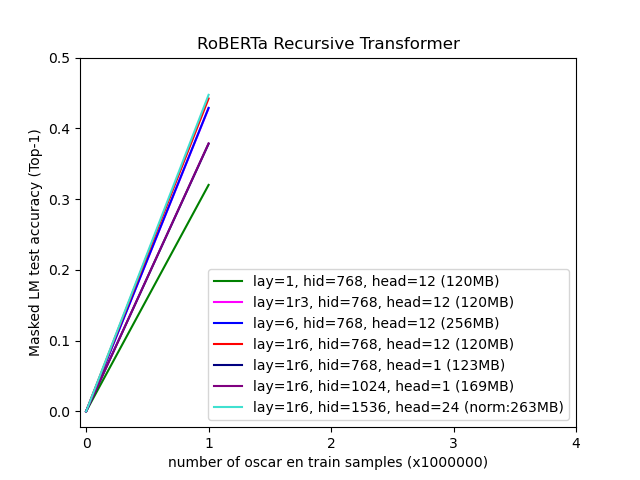
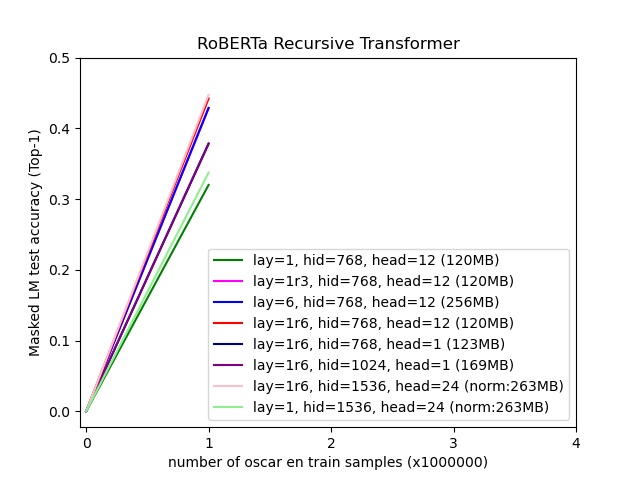
restore support for positionEmbeddingType:"absolute" normalise graph colouring scheme

diff --git a/SBNLPpt/SBNLPpt_globalDefs.py b/SBNLPpt/SBNLPpt_globalDefs.py
@@ -154,11 +154,11 @@ if(useAlgorithmTransformer):
 	recursiveLayersEmulateOrigImplementation = False
 	transformerSuperblocksRecursive = False
 	
-	
 	#initialise (default vars);
-	numberOfHiddenLayers = 1	#6	#default: 6
+	numberOfHiddenLayers = 1	#default: 1 (with recursiveLayers) or 6
 	numberOfAttentionHeads = 12	#default: 12	#numberOfAttentionHeadsDefault
 	hiddenLayerSizeTransformer = 768	#default: 768 (can be overridden)
+	positionEmbeddingType = "relative_key"	#default:"relative_key"	#orig (Nov 2022):"absolute"
 
 	if(transformerSuperblocks):
 		transformerSuperblocksNumber = 1	#segregate nlp and logic layers
@@ -173,18 +173,19 @@ if(useAlgorithmTransformer):
 				hiddenLayerSizeTransformer = 256
 				numberOfHiddenLayers = 2
 	if(recursiveLayers):
-		recursiveLayersNormaliseNumParameters2 = False	#optional
-		if(recursiveLayersNormaliseNumParameters2):
-			numberOfAttentionHeads = 24
-			hiddenLayerSizeTransformer = 1536
 		recursiveLayersEmulateOrigImplementation = False	#emulate orig implementation so that archived models can be reloaded
 		if(recursiveLayersEmulateOrigImplementation):
 			recursiveLayersNumberIterations = numberOfHiddenLayers	#numberOfHiddenLayers is interpreted as recursiveLayersNumberIterations
 		else:
 			recursiveLayersNumberIterations = 6
+	
 	#if(recursiveLayers or transformerSuperblocksRecursive):
 	#	numberOfAttentionHeads = 1	#prevents recursion across different attention heads, nullifying precise recursion
-
+	recursiveLayersNormaliseNumParameters2 = False	#optional
+	if(recursiveLayersNormaliseNumParameters2):
+		numberOfAttentionHeads = 24
+		hiddenLayerSizeTransformer = 1536
+			
 	if(transformerAttentionHeadPermutations):
 		transformerAttentionHeadPermutationsIndependentOutput = True	#SelfOutput executes dense linear in groups of size numberOfAttentionHeads	#does not support sharedLayerWeightsOutput
 		transformerAttentionHeadPermutationsType = "dependent"	#perform softmax over all permutations (rather than over each permutation independently)
@@ -221,6 +222,7 @@ if(useAlgorithmTransformer):
 		createOrderedDataset = True
 		#tokenMemoryBank algorithm requires continuous/contiguous textual input	#batchSize > 0, will need to feed contiguous input for each sample in batch
 		relativeTimeEmbeddings = True	#attention scores are weighted based on a (learnable) function of the relative age between queried/keyed tokens
+		positionEmbeddingType = "relative_time"	#calculates relative time between layer tokens
 		if(lowSequenceNumTokens):
 			memoryBankSizeMultiplier = 4
 		else:

diff --git a/graph/RobertaRecursiveTransformerHeads.py b/graph/RobertaRecursiveTransformerHeads.py
@@ -9,6 +9,7 @@ y4 = np.array([0, 0.44220867459774016, np.nan, np.nan, np.nan])
 y5 = np.array([0, 0.37814562149047853, np.nan, np.nan, np.nan])
 y6 = np.array([0, 0.3787440519094467, np.nan, np.nan, np.nan])
 y7 = np.array([0, 0.4473719531536102, np.nan, np.nan, np.nan])
+y8 = np.array([0, 0.3374555701255798, np.nan, np.nan, np.nan])
 
 l1, = plt.plot(x, y1, color='green', label='lay=1, hid=768, head=12 (120MB)')
 l2, = plt.plot(x, y2, color='magenta', label='lay=1r3, hid=768, head=12 (120MB)')
@@ -16,7 +17,8 @@ l3, = plt.plot(x, y3, color='blue', label='lay=6, hid=768, head=12 (256MB)')
 l4, = plt.plot(x, y4, color='red', label='lay=1r6, hid=768, head=12 (120MB)')
 l5, = plt.plot(x, y5, color='navy', label='lay=1r6, hid=768, head=1 (123MB)')
 l6, = plt.plot(x, y6, color='purple', label='lay=1r6, hid=1024, head=1 (169MB)')
-l7, = plt.plot(x, y7, color='turquoise', label='lay=1r6, hid=1536, head=24 (norm:263MB)')
+l7, = plt.plot(x, y7, color='pink', label='lay=1r6, hid=1536, head=24 (norm:263MB)')
+l8, = plt.plot(x, y8, color='lightgreen', label='lay=1, hid=1536, head=24 (norm:263MB)')
 
 plt.xticks(np.arange(min(x), max(x)+1, 1.0))
 plt.yticks(np.arange(0, 0.5+0.1, 0.1))
@@ -25,6 +27,6 @@ plt.xlabel("number of oscar en train samples (x1000000)")
 plt.ylabel("Masked LM test accuracy (Top-1)")
 plt.title("RoBERTa Recursive Transformer")
 
-plt.legend(handles=[l1, l2, l3, l4, l5, l6, l7])
+plt.legend(handles=[l1, l2, l3, l4, l5, l6, l7, l8])
 
 plt.show()

diff --git a/SBNLPpt/SBNLPpt_transformerModel.py b/SBNLPpt/SBNLPpt_transformerModel.py
@@ -343,8 +343,10 @@ class RobertaSelfAttention(nn.Module):
 		# Take the dot product between "query" and "key" to get the raw attention scores.
 		attention_scores = torch.matmul(query_layer, key_layer.transpose(-1, -2))
 		
-		relative_position_scores = self.calculateRelativePositionScores(hidden_states, query_layer, key_layer)
-		attention_scores = attention_scores + relative_position_scores
+		if(self.position_embedding_type != "absolute"):
+			relative_position_scores = self.calculateRelativePositionScores(hidden_states, query_layer, key_layer)
+			attention_scores = attention_scores + relative_position_scores
+
 		attention_scores = attention_scores / math.sqrt(self.attention_head_size)
 
 		if attention_mask is not None:
@@ -408,6 +410,8 @@ class RobertaSelfAttention(nn.Module):
 					relative_position_scores_query = torch.einsum("bhld,lrd->bhlr", query_layer, positional_embedding)
 					relative_position_scores_key = torch.einsum("bhrd,lrd->bhlr", key_layer, positional_embedding)
 					relative_position_scores = relative_position_scores_query + relative_position_scores_key
+			else:
+				relative_position_scores = None
 		return relative_position_scores
 
 # Copied from transformers.models.bert.modeling_bert.BertSelfOutput

diff --git a/graph/RobertaRecursiveTransformer.py b/graph/RobertaRecursiveTransformer.py
@@ -10,7 +10,7 @@ y4 = np.array([0, 0.4473719531536102, np.nan, np.nan, np.nan])
 l1, = plt.plot(x, y1, color='green', label='lay=1, hid=768, head=12 (120MB)')
 l2, = plt.plot(x, y2, color='blue', label='lay=6, hid=768, head=12 (256MB)')
 l3, = plt.plot(x, y3, color='red', label='lay=1r6, hid=768, head=12 (120MB)')
-l4, = plt.plot(x, y4, color='turquoise', label='lay=1r6, hid=1536, head=24 (norm:263MB)')
+l4, = plt.plot(x, y4, color='pink', label='lay=1r6, hid=1536, head=24 (norm:263MB)')
 
 plt.xticks(np.arange(min(x), max(x)+1, 1.0))
 plt.yticks(np.arange(0, 0.5+0.1, 0.1))

diff --git a/SBNLPpt/SBNLPpt_transformer.py b/SBNLPpt/SBNLPpt_transformer.py
@@ -45,10 +45,8 @@ if(transformerPOSembeddings):
 if(not usePretrainedModelDebug):
 	from SBNLPpt_transformerModel import getMaxPositionEmbedding
 	if(relativeTimeEmbeddings):
-		positionEmbeddingType = "relative_time"	#calculates relative time between layer tokens
 		maxPositionEmbeddings = getMaxPositionEmbedding(sequenceRegisterMaxTokenTime)
 	else:
-		positionEmbeddingType = "relative_key"	#"absolute"	#default
 		maxPositionEmbeddings = getMaxPositionEmbedding(sequenceMaxNumTokens)
 
 if(useMultipleModels):

diff --git a/README.md b/README.md
@@ -35,28 +35,27 @@ python SBNLPpt_main.py
 ## recursiveLayers
 
 ![recursiveLayers1b.drawio.png](https://github.com/bairesearch/TSBpt/blob/master/graph/recursiveLayers1b.drawio.png?raw=true)
+- [recursiveLayers1a.drawio.png](https://github.com/bairesearch/TSBpt/blob/master/graph/archive/recursiveLayers1a.drawio.png?raw=true)
 
 ![RobertaRecursiveTransformer.png](https://github.com/bairesearch/TSBpt/blob/master/graph/RobertaRecursiveTransformer.png?raw=true)
 
 - [RobertaRecursiveTransformerHeads.png](https://github.com/bairesearch/TSBpt/blob/master/graph/RobertaRecursiveTransformerHeads.png?raw=true)
 
-### archive
+#### Archive - Nov 2022 (positionEmbeddingType absolute)
 
-![RobertaRecursiveTransformerLayers-Nov2022.png](https://github.com/bairesearch/TSBpt/blob/master/graph/archive/Nov2022/RobertaRecursiveTransformerLayers-Nov2022.png?raw=true)
-
-- [recursiveLayers1a.drawio.png](https://github.com/bairesearch/TSBpt/blob/master/graph/archive/recursiveLayers1a.drawio.png?raw=true)
-- [RobertaRecursiveTransformer-Nov2022.png](https://github.com/bairesearch/TSBpt/blob/master/graph/archive/Nov2022/RobertaRecursiveTransformer-Nov2022.png?raw=true)
+![RobertaRecursiveTransformerLayers-Nov2022.png](https://github.com/bairesearch/TSBpt/blob/master/graph/archive/positionEmbeddingTypeAbsolute-Nov2022/RobertaRecursiveTransformerLayers-Nov2022.png?raw=true)
+- [RobertaRecursiveTransformer-Nov2022.png](https://github.com/bairesearch/TSBpt/blob/master/graph/archive/positionEmbeddingTypeAbsolute-Nov2022/RobertaRecursiveTransformer-Nov2022.png?raw=true)
 
 ## transformerSuperblocks
 
 ![transformerSuperblocks1b.drawio.png](https://github.com/bairesearch/TSBpt/blob/master/graph/transformerSuperblocks1b.drawio.png?raw=true)
+- [transformerSuperblocks1a.drawio.png](https://github.com/bairesearch/TSBpt/blob/master/graph/archive/transformerSuperblocks1a.drawio.png?raw=true)
 
 ![RobertaRecursiveTransformerSuperblocks.png](https://github.com/bairesearch/TSBpt/blob/master/graph/RobertaRecursiveTransformerSuperblocks.png?raw=true)
 
-### archive
+#### Archive - Nov 2022 (positionEmbeddingType absolute)
 
-- [transformerSuperblocks1a.drawio.png](https://github.com/bairesearch/TSBpt/blob/master/graph/archive/transformerSuperblocks1a.drawio.png?raw=true)
-- [RobertaRecursiveTransformerSuperblocks-Nov2022.png](https://github.com/bairesearch/TSBpt/blob/master/graph/archive/Nov2022/RobertaRecursiveTransformerSuperblocks-Nov2022.png?raw=true)
+- [RobertaRecursiveTransformerSuperblocks-Nov2022.png](https://github.com/bairesearch/TSBpt/blob/master/graph/archive/positionEmbeddingTypeAbsolute-Nov2022/RobertaRecursiveTransformerSuperblocks-Nov2022.png?raw=true)
 
 ## tokenMemoryBank
 
